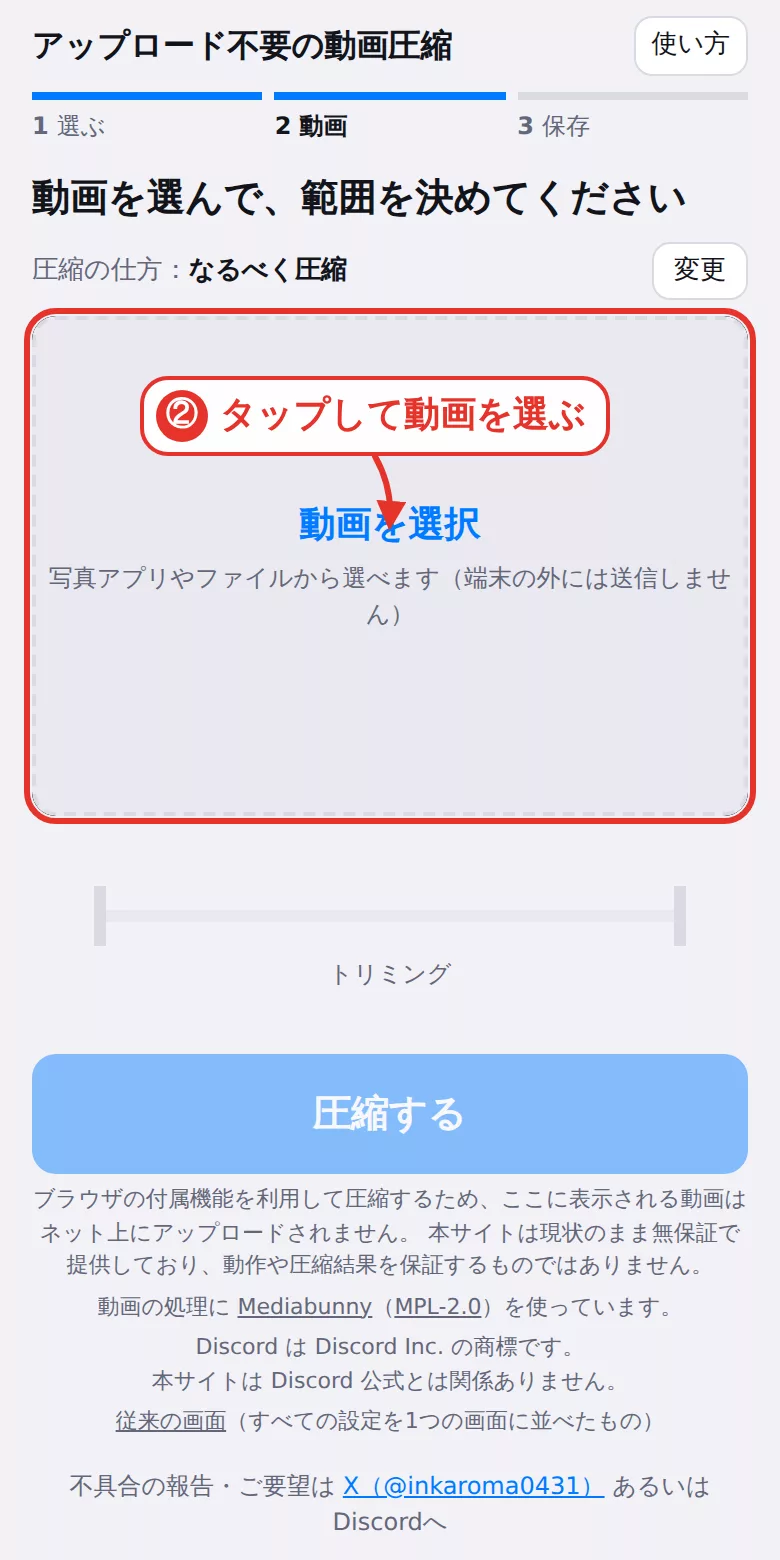
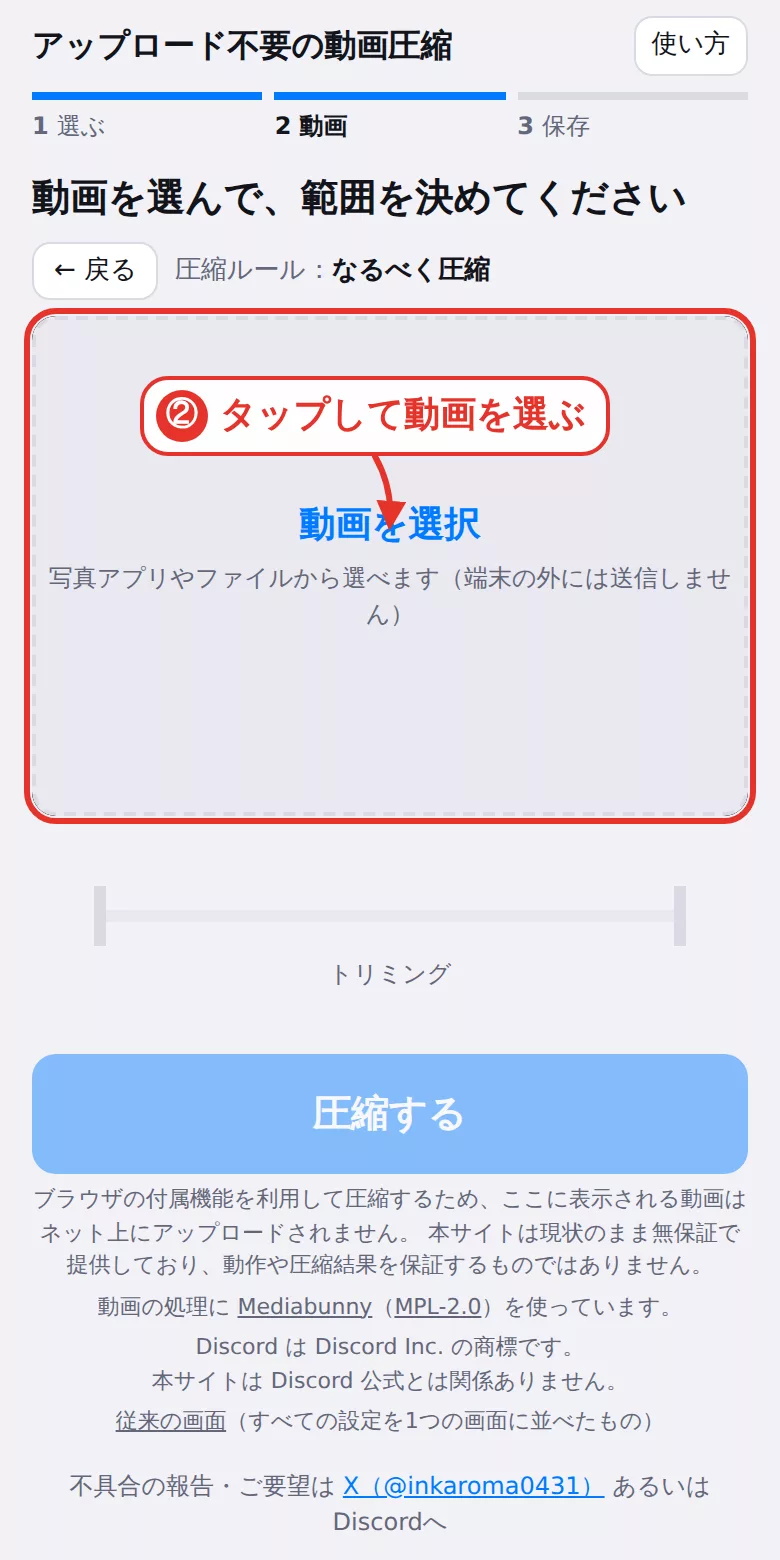
3-step page: "compression rule" label with a back button and live name
- Step 2 shows "圧縮ルール：<name>" with a "← 戻る" button on the left
  (same as the old "変更" button, which is removed).
- The rule name treats the presets as templates: if the current
  settings (including step-2 changes) produce the same output as
  "なるべく圧縮" or "画質優先（20MB以内）", show that name, otherwise
  "カスタム". The custom choice uses the same naming.
- Tests, self-test expectations, shortcut page text, help images and
  README updated.

Claude-Session: https://claude.ai/code/session_01Kjx2uZRnB9w1XNEyRL87P8

Changed region(s): [[0.0308, 0.1538, 0.6462, 0.1846], [0.8615, 0.1538, 0.9231, 0.1846]]

diff --git a/public/app.js b/public/app.js
@@ -57,7 +57,7 @@
   var KEYFRAME_INTERVAL = 2;             // 秒
   var MIN_TRIM_LENGTH = 0.5;             // 秒
   var AUDIO_DECODE_MAX_BYTES = 400 * MB;   // 互換モードで音声を扱うファイルサイズの上限
-  var APP_VERSION = '2026-10-02f';        // 診断情報に出す（どの版で起きたかを見分ける）
+  var APP_VERSION = '2026-10-02g';        // 診断情報に出す（どの版で起きたかを見分ける）
   var CANCELLED = 'cancelled';
   var SNAPSHOT_MAX_BYTES = 600 * MB;     // Android で動画をブラウザ内に写し取る上限（これより大きい動画は写さない）
   var STALLED = 'stalled';
@@ -122,7 +122,7 @@
     size: { res: 'source', mode: 'size', halfFps: false }
   };
 
-  // 3ステップの画面の 2 で変えた値（その動画だけ。新しい動画を選ぶ・圧縮の仕方を選び直す・設定のステップで設定を変えると戻す）
+  // 3ステップの画面の 2 で変えた値（その動画だけ。新しい動画を選ぶ・1 で選び直す・設定のステップで設定を変えると戻す）
   //   res     … 解像度（'1080' | '720' | '480'。null なら設定のまま）
   //   halfFps … 60fpsの動画を30fpsにするか（null なら設定のまま）
   //   mode    … 圧縮方法（'quality'＝指定ビットレートでなるべく圧縮 | 'size'＝目標サイズに収まるなるべく高いビットレート。null なら設定のまま）
@@ -3075,6 +3075,39 @@
     });
   }
 
+  // 圧縮ルールの名前（2 に出す）。圧縮ルールは設定のテンプレート（なるべく圧縮・画質優先）として扱い、
+  // 今の設定（2 で変えた値を含む）がテンプレートと同じならその名前、違えば「カスタム」にする（「詳しく設定する」で選んだときも同じ）。
+  // 動画を選んでいれば、書き出す動画が同じになるか（解像度・fps・圧縮方法・ビットレート・目標サイズ・音声）で比べる
+  // （1080p の動画の「元の解像度」と「1080p」、30fps の動画の「60fpsを30fpsにする」のあり・なしなどは同じとみる）
+  var RULE_NAMES = { quality: 'なるべく圧縮', size: '画質優先（20MB以内）' };
+  var RULE_CUSTOM = 'カスタム';
+  function templateSettings(name) {
+    var p = EASY_PRESETS[name];
+    var s = {
+      res: easyResFixed() ? 'source' : p.res, mode: p.mode, halfFps: p.halfFps, audio: true, autoRun: false,
+      targetMB: DEFAULT_TARGET_MB, targetBytes: Math.floor(DEFAULT_TARGET_MB * MB),
+      minBitrate: { '720': DEFAULT_MIN_KBPS['720'] * 1000, '1080': DEFAULT_MIN_KBPS['1080'] * 1000 }
+    };
+    s.minBitrate['480'] = Math.round(s.minBitrate['720'] * 4 / 9);
+    return s;
+  }
+  function sameRule(a, b) {
+    if (a.mode !== b.mode || a.audio !== b.audio || (a.mode === 'size' && a.targetBytes !== b.targetBytes)) return false;
+    if (!state.meta || !state.file) {
+      return a.res === b.res && a.halfFps === b.halfFps &&
+        a.minBitrate['720'] === b.minBitrate['720'] && a.minBitrate['1080'] === b.minBitrate['1080'];
+    }
+    var plan = function (s) { return makePlan(state.meta, state.trim, s, audioStrategy(state.meta, s.audio, state.engine), state.file.size); };
+    var pa = plan(a), pb = plan(b);
+    return pa.width === pb.width && pa.height === pb.height && Math.round(pa.outFps) === Math.round(pb.outFps) &&
+      pa.videoBitrate === pb.videoBitrate && pa.floorBitrate === pb.floorBitrate && pa.audio.mode === pb.audio.mode;
+  }
+  function ruleName() {
+    var cur = readSettings();
+    for (var k in RULE_NAMES) if (sameRule(cur, templateSettings(k))) return RULE_NAMES[k];
+    return RULE_CUSTOM;
+  }
+
   // 3ステップの画面で選ぶ。圧縮した動画があれば消す
   //   2択 … 初期値の設定に、選んだ方の設定を重ねる。custom … 初期値に保存してある設定を重ねる（アプリの画面と同じ）
   function setEasyPreset(name) {
@@ -3357,7 +3390,7 @@
     estimateFps: estimateFps, snapFps: snapFps, audioStrategy: audioStrategy,
     state: state, precomp: function () { return { pre: pre }; },
     pickFile: function (file) { onFileChosen(file); },   // 自己テスト（selftest.html）から動画を渡す
-    setEasyPreset: setEasyPreset, redo: redo, isCompressed: isCompressed,   // 3ステップの画面（easy.js）から使う
+    setEasyPreset: setEasyPreset, redo: redo, isCompressed: isCompressed, ruleName: ruleName,   // 3ステップの画面（easy.js）から使う
     urlSettings: hasSettingParams(), isPreviewHost: isPreviewHost,
     constants: {
       SIZE_SAFETY: SIZE_SAFETY, AUDIO_BITRATE: AUDIO_BITRATE, DEFAULT_MIN_KBPS: DEFAULT_MIN_KBPS,

diff --git a/public/selftest.js b/public/selftest.js
@@ -922,7 +922,7 @@
         if (visible('step2') || visible('step3')) problems.push('1 のときに 2・3 が見えている');
         clickApp('.choice[data-preset="quality"]');
         await waitStep('2');
-        if (appText('easyModeName') !== 'なるべく圧縮') problems.push('2 の「圧縮の仕方」が「' + appText('easyModeName') + '」');
+        if (appText('easyModeName') !== 'なるべく圧縮') problems.push('2 の「圧縮ルール」が「' + appText('easyModeName') + '」');
         if (!visible('pickBtn')) problems.push('2 に「動画を選ぶ」が出ない');
         if (!(await pickByInput(source.file))) warns.push('入力欄に動画を入れられず、アプリに直接渡した');
         var s = appState();
@@ -985,7 +985,7 @@
         s = appState();
         if (!s.meta || s.meta.width !== 1280) problems.push('新しい動画になっていない');
         if (s.out) problems.push('前の動画の圧縮結果が残っている');
-        if (appText('easyModeName') !== 'なるべく圧縮') problems.push('「圧縮の仕方」が変わった（' + appText('easyModeName') + '）');
+        if (appText('easyModeName') !== 'なるべく圧縮') problems.push('「圧縮ルール」が変わった（' + appText('easyModeName') + '）');
         r.detail = s.meta ? '元: ' + s.meta.width + '×' + s.meta.height : '';
         judge(r, problems, []);
       }
@@ -998,7 +998,7 @@
         var problems = [];
         clickApp('.choice[data-preset="size"]');
         await waitStep('2');
-        if (appText('easyModeName') !== '画質優先（20MB以内）') problems.push('2 の「圧縮の仕方」が「' + appText('easyModeName') + '」');
+        if (appText('easyModeName') !== '画質優先（20MB以内）') problems.push('2 の「圧縮ルール」が「' + appText('easyModeName') + '」');
         await pickByInput(source.file);
         var s = appState();
         if (!s.meta) return fail(r, '読み込めない: ' + (s.loadError || appText('planWarn')));
@@ -1030,7 +1030,7 @@
       }
     },
     {
-      title: '「詳しく設定する」は、1 と 2 の間に設定のステップが入り、「変更」で設定に戻れる',
+      title: '「詳しく設定する」は、1 と 2 の間に設定のステップが入り、「← 戻る」で設定に戻れる',
       run: async function (source, r) {
         await openEasy(r);
         var problems = [];
@@ -1042,9 +1042,10 @@
         });
         clickApp('#easySetNext');
         await waitStep('2');
-        if (appText('easyModeName') !== '詳しく設定する') problems.push('2 の「圧縮の仕方」が「' + appText('easyModeName') + '」');
+        // 圧縮ルールは、保存してある設定がテンプレートと同じならその名前、違えば「カスタム」
+        if (['なるべく圧縮', '画質優先（20MB以内）', 'カスタム'].indexOf(appText('easyModeName')) < 0) problems.push('2 の「圧縮ルール」が「' + appText('easyModeName') + '」');
         clickApp('#easyChange');
-        await waitStep('set').catch(function () { problems.push('「変更」で設定のステップに戻らない（今は「' + curStep() + '」）'); });
+        await waitStep('set').catch(function () { problems.push('「← 戻る」で設定のステップに戻らない（今は「' + curStep() + '」）'); });
         clickApp('.steps li[data-step="1"] button');   // 手順の帯で 1 に戻る
         await waitStep('1').catch(function () { problems.push('手順の帯で 1 に戻れない'); });
         r.detail = '設定は変えずに、行き来だけを確かめた';
@@ -1060,7 +1061,7 @@
         await openApp('res=720&mode=size&target=2', false, './');
         var problems = [];
         await waitStep('2').catch(function () { problems.push('2 から始まらない（今は「' + curStep() + '」）'); });
-        if (appText('easyModeName') !== '詳しく設定する') problems.push('「圧縮の仕方」が「' + appText('easyModeName') + '」');
+        if (appText('easyModeName') !== 'カスタム') problems.push('「圧縮ルール」が「' + appText('easyModeName') + '」（正しくは「カスタム」）');
         if (stepNames() !== '選ぶ・設定・動画・保存') problems.push('手順の帯が「' + stepNames() + '」');
         await pickByInput(source.file);
         var s = appState();

diff --git a/public/easy.js b/public/easy.js
@@ -10,7 +10,6 @@
   var C = window.__compressor;
   if (!C) return;
   var $ = function (id) { return document.getElementById(id); };
-  var LABELS = { quality: 'なるべく圧縮', size: '画質優先（20MB以内）', custom: '詳しく設定する' };
   // ステップの順番（set … 「詳しく設定する」のときだけ通る設定のステップ）と、その画面の id
   var ORDER = ['1', 'set', '2', '3'];
   var SECTION = { '1': 'step1', set: 'stepSet', '2': 'step2', '3': 'step3' };
@@ -32,7 +31,6 @@
   function choose(name, skipSet) {
     preset = name;
     C.setEasyPreset(name);
-    $('easyModeName').textContent = LABELS[name];
     document.querySelectorAll('.choice').forEach(function (b) { b.setAttribute('aria-pressed', String(b.dataset.preset === name)); });
     setStep(name === 'custom' && !skipSet ? 'set' : '2');
   }
@@ -63,6 +61,9 @@
       li.querySelector('button').disabled = s.running || pos(k) > pos(step) || (k !== '1' && !preset);
     });
 
+    // 2. 圧縮ルールの名前（今の設定がテンプレートと同じならその名前、違えば「カスタム」）
+    $('easyModeName').textContent = preset ? C.ruleName() : '';
+
     // 2. 押せばすぐ出せるとき（予圧縮が使えるとき）は、その大きさを出す。目標以下の動画は、圧縮せずに進める
     var note = C.readSettings().mode === 'size' ? $('quickNoteSize') : $('quickNote');
     var quick = !note.classList.contains('hidden') && note.textContent;
@@ -91,7 +92,7 @@
     });
   });
   $('easySetNext').addEventListener('click', function () { setStep('2'); });
-  // 2 の「変更」：「詳しく設定する」なら設定のステップへ、2択なら 1 へ
+  // 2 の「← 戻る」：「詳しく設定する」なら設定のステップへ、2択なら 1 へ
   $('easyChange').addEventListener('click', function () { setStep(preset === 'custom' ? 'set' : '1'); });
   $('easyPass').addEventListener('click', function () { setStep('3'); });
   $('easyCancel').addEventListener('click', function () {

diff --git a/public/shortcut.html b/public/shortcut.html
@@ -320,7 +320,7 @@
     <p><a class="url" href="./?res=1080&amp;mode=quality&amp;fps=source&amp;audio=off&amp;name=date,text1,rand&amp;text1=%E3%81%82%E3%82%93%E3%81%9F%E3%81%AE%E5%90%8D%E5%89%8D">https://maka-u20mb.pages.dev/?res=1080&amp;mode=quality&amp;fps=source&amp;audio=off&amp;name=date,text1,rand&amp;text1=%E3%81%82%E3%82%93%E3%81%9F%E3%81%AE%E5%90%8D%E5%89%8D</a></p>
     <p class="example-note">（<code>text1=</code> の後ろは「あんたの名前」を URL 用に変換した文字です。自分の名前などに変えて使ってください）</p>
   </div>
-  <p class="section-lead">設定の入ったURLで開くと、サイトは「詳しく設定する」をURLの設定で選んだ状態になり、すぐ動画を選ぶ画面から始まります（画面の「圧縮の仕方」には「詳しく設定する」と出ます）。URLに入っていない項目は初期値（720p・20MB以内に圧縮など）になり、前回の設定は使われません。</p>
+  <p class="section-lead">設定の入ったURLで開くと、サイトは「詳しく設定する」をURLの設定で選んだ状態になり、すぐ動画を選ぶ画面から始まります（画面の「圧縮ルール」には、URLの設定が「なるべく圧縮」「画質優先」と同じならその名前、違えば「カスタム」と出ます）。URLに入っていない項目は初期値（720p・20MB以内に圧縮など）になり、前回の設定は使われません。</p>
 </main>
 </body>
 </html>

diff --git a/public/index.html b/public/index.html
@@ -127,7 +127,8 @@
   <!-- 2. 動画を選んでトリミング -->
   <section id="step2" class="easy-step" aria-labelledby="step2Title">
     <h2 class="step-title" id="step2Title">動画を選んで、範囲を決めてください</h2>
-    <div class="easy-mode"><span>圧縮の仕方：<b id="easyModeName"></b></span><span class="easy-mode-btns"><button id="repickBtn" type="button" class="btn btn-sm hidden">別の動画</button><button id="easyChange" type="button" class="btn btn-sm">変更</button></span></div>
+    <!-- 圧縮ルール：設定のテンプレート（なるべく圧縮・画質優先）と同じならその名前、違えば「カスタム」 -->
+    <div class="easy-mode"><button id="easyChange" type="button" class="btn btn-sm">← 戻る</button><span class="easy-mode-name">圧縮ルール：<b id="easyModeName"></b></span><span class="easy-mode-btns"><button id="repickBtn" type="button" class="btn btn-sm hidden">別の動画</button></span></div>
     <input id="file" type="file" accept="video/*" class="visually-hidden">
     <div class="media-box is-large" id="srcBox">
       <video id="srcVideo" class="hidden" playsinline webkit-playsinline controls preload="metadata"></video>

diff --git a/public/sw.js b/public/sw.js
@@ -9,7 +9,7 @@
 'use strict';
 
 var CACHE_PREFIX = 'video-compressor-under20mb-';   // このアプリのキャッシュ名の頭（同じドメインの別アプリのキャッシュは消さない）
-var CACHE = CACHE_PREFIX + 'v187';
+var CACHE = CACHE_PREFIX + 'v188';
 var NETWORK_TIMEOUT_MS = 3000;   // ネット優先のとき、ネットの応答をこれだけ待ってからキャッシュを使う
 
 // Cloudflare Pages のプレビュー（<ブランチ名>.<プロジェクト名>.pages.dev）と手元の確認環境だけネット優先にする

diff --git a/public/style.css b/public/style.css
@@ -981,6 +981,13 @@ header:has(#repickBtn:not(.hidden)) #easyLink {
 .easy-mode b {
   color: var(--text);
 }
+.easy-mode-name {
+  flex: 1;
+  min-width: 0;
+}
+.easy-mode > .btn {
+  flex: none;
+}
 .app.easy-app .media-box.is-large,
 .app.easy-app .media-box.is-small,
 .app.easy-app.is-running .media-box.is-small {

diff --git a/README.md b/README.md
@@ -35,7 +35,8 @@
 3. **共有・保存**：進み具合と仕上がりを出し、「Discord等に共有」「保存」を大きく出す。「範囲を変えてやり直す」「別の動画を圧縮する」で戻れる
 
 - 上の手順の帯で前のステップに戻れます（圧縮中は戻れません。キャンセルすると 2 に戻ります）。
-- 2 は、どれを選んでも動画とトリミングだけです。「別の動画」で動画を選び直せ、「変更」で 1（「詳しく設定する」なら設定のステップ）に戻れます。
+- 2 は、どれを選んでも動画とトリミング（と、その動画だけの解像度・fps・圧縮方法）だけです。「別の動画」で動画を選び直せ、「← 戻る」で 1（「詳しく設定する」なら設定のステップ）に戻れます。
+- 2 の**圧縮ルール**は、設定のテンプレート（なるべく圧縮・画質優先）として扱います。今の設定（2 で変えた値を含む）がテンプレートと同じならその名前、違えば「カスタム」と出します（「詳しく設定する」を選んだときも同じ）。動画を選んでいれば、書き出す動画が同じになるか（解像度・fps・圧縮方法・ビットレート・目標サイズ・音声）で比べます（1080p の動画の「元の解像度」と「1080p」などは同じとみる）。
 - 2択のときは、この端末に保存してある設定は使わず、2択で決めた設定も保存しません。
 - **720p・1080p ではない動画**（スマホの画面録画・4K・小さい動画など）は、どれを選んでも元の解像度のまま圧縮し、2 に「720p・1080pではない動画のため、そのままの解像度（幅×高さ）で圧縮します。」と出します。2 の解像度は出さず、設定のステップの解像度も押せません。
 - **URLに設定のパラメータがあるとき**（ショートカットから開いたときなど）は、その設定の「詳しく設定する」にして、すぐ 2 から始めます（保存してある設定の代わりにURLの設定を使う。従来の画面と同じ）。`auto=on` なら、動画を選んだらそのまま圧縮して 3 に進みます
@@ -456,7 +457,7 @@ iPhone・Android の実機では、`https://maka-u20mb.pages.dev/selftest.html` 
 - **新しい画面（3ステップ）を試す**：設定なしでアプリの画面を開き、画面のボタンを押してステップを進め、9件判定します。
   「なるべく圧縮」で 1 → 2 → 3 と進み 720p・30fps になること、「範囲を変えてやり直す」で 2 に戻って圧縮し直せること、3 で別の動画を選ぶと 2 に戻ること、
   「画質優先（20MB以内）」で20MB以下の動画は圧縮せずに 3 へ進め、範囲を決めると元の画質・fps のまま切り出すこと、
-  「詳しく設定する」で設定のステップが入り「変更」で戻れること、URL に設定があれば（ショートカット）2 から始まりその設定で圧縮すること、
+  「詳しく設定する」で設定のステップが入り「← 戻る」で戻れること、URL に設定があれば（ショートカット）2 から始まりその設定で圧縮すること、
   圧縮中の「キャンセル」で 2 に戻ること、予圧縮が済むと 2 に「◯MBで即出力」が出て予圧縮から切り出すこと、最後に保存してある設定が変わっていないこと。
 - **手元の動画でも試す**：iPhone で撮った HEVC・HDR・縦向きの動画など、選んだ動画を 720p・1080p・480p（新しい画面の 2 の解像度で選ぶ）で圧縮して判定します（720p・1080p ではない動画は、新しい画面では元の解像度のまま圧縮するので「注意」にします）。
 - 「新しい画面を試す」以外は、アプリの画面（3ステップ）を URL の設定つきで開きます（「詳しく設定する」で 2 から始まる）。
